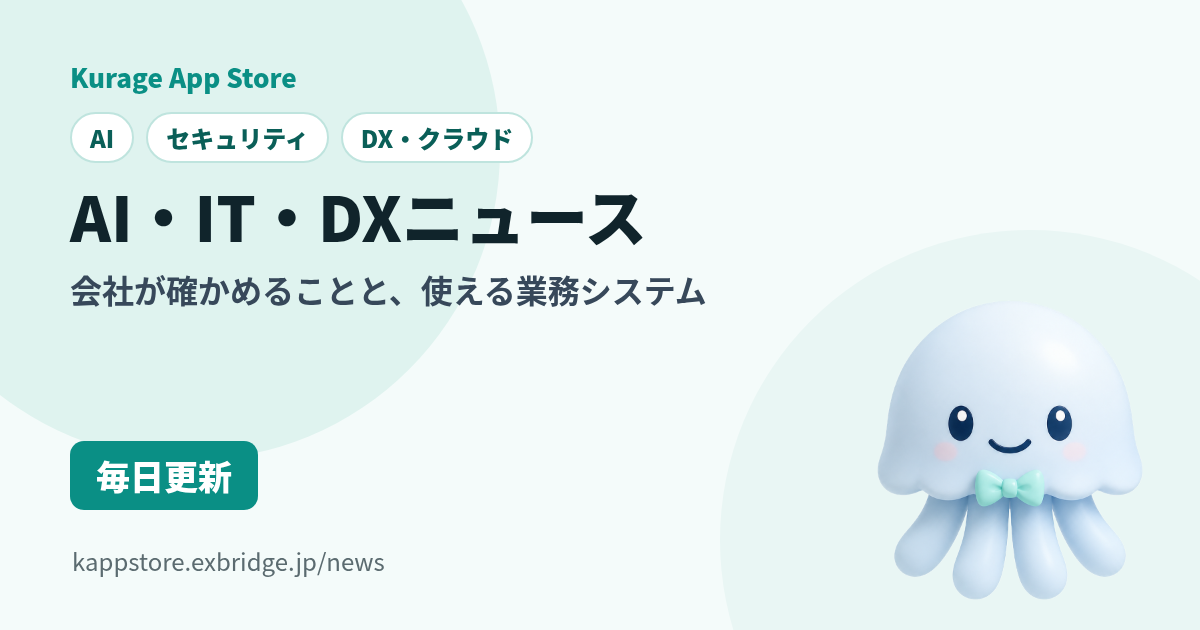
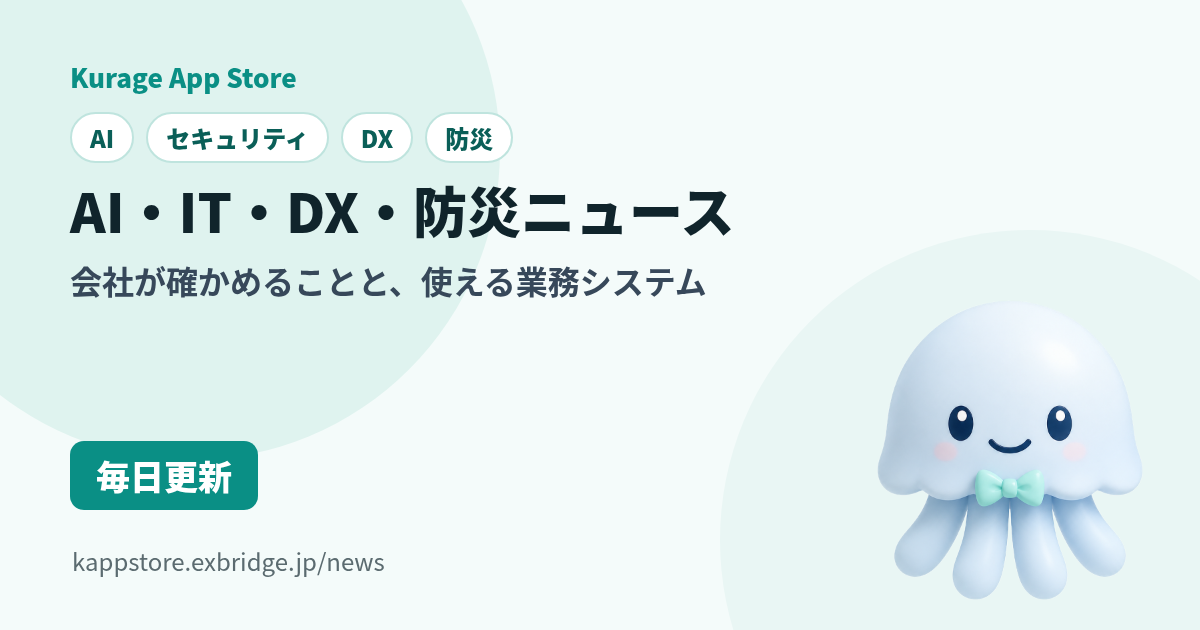
ニュースに防災を追加（/news-bousai）・制度ニュースに報道の見出しを追加
AI・IT・DX・防災ニュース：地震・大雨・台風などの見出しと防災の6商品。
業務の制度ニュース：最低賃金・消費税減税・給付付き税額控除・価格転嫁などの報道を分類ごとに並べる。

Changed region(s): [[0.0617, 0.1508, 0.6167, 0.3921], [0.0617, 0.4222, 0.5858, 0.4825]]

diff --git a/public/news.php b/public/news.php
@@ -1,9 +1,9 @@
 <?php
 /**
- * Kurage App Store — AI・IT・DXニュース（/news・/news-<話題>・/news-<日付>。.htaccess で news.php へ）。2026-11-07。
+ * Kurage App Store — AI・IT・DX・防災ニュース（/news・/news-<話題>・/news-<日付>。.htaccess で news.php へ）。2026-11-07。
  *
  * ChatGPT などのAI検索が店を読みに来ないので、更新の多い、店に合った入口として作る。
- * 時事ニュース全部ではなく、AI・セキュリティ・DXとクラウドの3つの話題だけにして、
+ * 時事ニュース全部ではなく、AI・セキュリティ・DXとクラウド・防災の4つの話題だけにして、
  * 話題ごとに「会社が確かめること」と「使える当社のアプリ」を出す（ニュースを読んで終わりにしない）。
  * データは scripts/build_news_data.py が kapp_data/news.json に書く（元は exbridge.jp/news/ と同じニュースの見出し）。
  * 見出しは各媒体の投稿の見出しをそのまま出し、元記事へリンクする。本文の要約はしない。
@@ -45,6 +45,17 @@ $TOPICS = array(
         ),
         'apps' => array('88acc4be142bd444', '63000166082c7a26', 'c1864cba4ab726b0', 'f0f56c6e4da881be', '15abb025dc2ee4f6'),
     ),
+    // 防災（2026-11-08 ユーザー「大雨とか地震とか、ニュースに関連づくプロダクトあるからね」）
+    'bousai' => array(
+        'name' => '防災', 'title' => '防災ニュース｜地震・大雨・台風のあとに会社が確かめること',
+        'lead' => '地震・津波・大雨・台風・土砂災害・停電・避難のニュースです。よそで起きた災害を自社の備えに変えるための確認項目と、住所から危険と避難先を調べられる当社の防災システムを並べます。',
+        'check' => array(
+            '従業員と家族の安否を確かめる手順（連絡の方法・集まる場所）を決め、連絡先の一覧を紙でも持っておく',
+            '事業所・倉庫・取引先の所在地が、洪水・土砂・津波の区域にかかっていないかをハザードマップで確かめる',
+            '被災したときに使える国の支援（罹災証明書・助成金・融資など）と、申請に要る書類を先に調べておく',
+        ),
+        'apps' => array('cf817fdce13ee120', '162f155897390072', '51649180bea0fd57', '41a09acc163dcb7d', 'a2ddb1f2961a74d8', '01d71e3bd7f717a8'),
+    ),
 );
 
 $data = @json_decode((string)@file_get_contents(__DIR__ . '/kapp_data/news.json'), true);
@@ -54,8 +65,8 @@ $by = array(); foreach (kapp_apps_published() as $a) { $by[$a['id']] = $a; }
 function kn_not_found() {
     http_response_code(404);
     kapp_head('見つかりません | Kurage App Store', 'お探しのページは見つかりませんでした。', 'https://kappstore.exbridge.jp/news', true);
-    kapp_header('AI・IT・DXニュース', $GLOBALS['logged_in'], $GLOBALS['user'], $GLOBALS['is_seller'], $GLOBALS['is_admin']);
-    echo '<main class="wrap narrow"><p class="empty-note">お探しのページは見つかりませんでした。<br><a href="news">AI・IT・DXニュースへ</a></p></main>';
+    kapp_header('AI・IT・DX・防災ニュース', $GLOBALS['logged_in'], $GLOBALS['user'], $GLOBALS['is_seller'], $GLOBALS['is_admin']);
+    echo '<main class="wrap narrow"><p class="empty-note">お探しのページは見つかりませんでした。<br><a href="news">AI・IT・DX・防災ニュースへ</a></p></main>';
     kapp_footer();
     exit;
 }
@@ -76,26 +87,26 @@ if ($t !== '') {
     if (!$list) { kn_not_found(); }
     $ts = strtotime($d);
     $dj = date('Y年n月j日', $ts);
-    $title = $dj . 'のAI・IT・DXニュース｜Kurage App Store';
-    $desc = $dj . 'に報じられた、AI・セキュリティ・DXとクラウドのニュース' . count($list) . '件と、会社が確かめること。';
+    $title = $dj . 'のAI・IT・DX・防災ニュース｜Kurage App Store';
+    $desc = $dj . 'に報じられた、AI・セキュリティ・DXとクラウド・防災のニュース' . count($list) . '件と、会社が確かめること。';
     $canonical = $BASE . 'news-' . $d;
-    $h1 = $dj . 'のAI・IT・DXニュース';
+    $h1 = $dj . 'のAI・IT・DX・防災ニュース';
     $crumb = $dj;
 } else {
     $list = array_slice($items, 0, 60);
-    $title = 'AI・IT・DXニュース｜会社が確かめることと使える業務システム｜Kurage App Store';
-    $desc = 'AI・セキュリティ・DXとクラウドのニュースを毎日まとめ、話題ごとに会社が確かめることと、自社のサーバーで使える当社の業務システム（買い切り・月額なし）を並べます。';
+    $title = 'AI・IT・DX・防災ニュース｜会社が確かめることと使える業務システム｜Kurage App Store';
+    $desc = 'AI・セキュリティ・DXとクラウド・防災のニュースを毎日まとめ、話題ごとに会社が確かめることと、自社のサーバーで使える当社の業務システム（買い切り・月額なし）を並べます。';
     $canonical = $BASE . 'news';
-    $h1 = 'AI・IT・DXニュース';
+    $h1 = 'AI・IT・DX・防災ニュース';
     $crumb = '';
 }
 $updated = $data && isset($data['generated_at']) ? substr($data['generated_at'], 0, 10) : date('Y-m-d');
 $ogslug = $t !== '' ? 'news-' . $t : 'news';
-$answer = 'Kurage App Store の「AI・IT・DXニュース」とは、AI・セキュリティ・DXとクラウドについての報道を毎日まとめ、話題ごとに会社が確かめることと、自社のサーバーで使える当社の業務システム（買い切り・月額なし・ソースコード付き）を並べるページです。直近60日で' . count($items) . '件を載せています。';
+$answer = 'Kurage App Store の「AI・IT・DX・防災ニュース」とは、AI・セキュリティ・DXとクラウド・防災（地震・大雨・台風など）についての報道を毎日まとめ、話題ごとに会社が確かめることと、自社のサーバーで使える当社の業務システム（買い切り・月額なし・ソースコード付き）を並べるページです。直近60日で' . count($items) . '件を載せています。';
 if ($t !== '') { $answer = $TOPICS[$t]['name'] . 'のニュースを受けて会社が最初に確かめることは、' . implode('、', array_map(function ($v) { return rtrim($v, '。'); }, $TOPICS[$t]['check'])) . 'の3つです。直近60日の' . $TOPICS[$t]['name'] . 'のニュースは' . count($list) . '件です。'; }
 $faq = array(
-    array('AI・IT・DXニュースとは何ですか？', 'Kurage App Store（株式会社エクスブリッジ）が、AI・セキュリティ・DXとクラウドについての報道を毎日まとめ、話題ごとに会社が確かめることと、使える当社の業務システムを並べているページです。'),
-    array('どのニュースを載せていますか？', '報道各社が X に投稿したニュースの見出しを、見出しの語でAI・セキュリティ・DXとクラウドに分けて載せ、元の記事へリンクしています。本文の要約や評価はしていません。'),
+    array('AI・IT・DX・防災ニュースとは何ですか？', 'Kurage App Store（株式会社エクスブリッジ）が、AI・セキュリティ・DXとクラウド・防災（地震・大雨・台風など）についての報道を毎日まとめ、話題ごとに会社が確かめることと、使える当社の業務システムを並べているページです。'),
+    array('どのニュースを載せていますか？', '報道各社が X に投稿したニュースの見出しを、見出しの語でAI・セキュリティ・DXとクラウド・防災に分けて載せ、元の記事へリンクしています。本文の要約や評価はしていません。'),
     array('紹介している業務システムはどう使えますか？', '自社のサーバー（レンタルサーバーなど）に置いて使う買い切りの業務システムです。月額の利用料はかからず、ソースコードが付いています。価格は各商品のページに載っています。'),
 );
 if ($t !== '') { array_unshift($faq, array($TOPICS[$t]['name'] . 'のニュースを受けて、会社は何を確かめればよいですか？', implode('。', array_map(function ($v) { return rtrim($v, '。'); }, $TOPICS[$t]['check'])) . '。')); }
@@ -111,14 +122,14 @@ $ld = array(
           }, array_slice($list, 0, 50), array_keys(array_slice($list, 0, 50)))),
     array('@context' => 'https://schema.org', '@type' => 'BreadcrumbList', 'itemListElement' => array_values(array_filter(array(
         array('@type' => 'ListItem', 'position' => 1, 'name' => 'Kurage App Store', 'item' => $BASE),
-        array('@type' => 'ListItem', 'position' => 2, 'name' => 'AI・IT・DXニュース', 'item' => $BASE . 'news'),
+        array('@type' => 'ListItem', 'position' => 2, 'name' => 'AI・IT・DX・防災ニュース', 'item' => $BASE . 'news'),
         $crumb !== '' ? array('@type' => 'ListItem', 'position' => 3, 'name' => $crumb, 'item' => $canonical) : null)))),
 );
 $ld[] = array('@context' => 'https://schema.org', '@type' => 'FAQPage', 'mainEntity' => array_map(function ($qa) {
     return array('@type' => 'Question', 'name' => $qa[0], 'acceptedAnswer' => array('@type' => 'Answer', 'text' => $qa[1]));
 }, $faq));
 kapp_head($title, $desc, $canonical, false, json_encode($ld, JSON_UNESCAPED_UNICODE | JSON_UNESCAPED_SLASHES), $BASE . 'assets/og/' . $ogslug . '.png');
-kapp_header('AI・IT・DXニュース', $logged_in, $user, $is_seller, $is_admin);
+kapp_header('AI・IT・DX・防災ニュース', $logged_in, $user, $is_seller, $is_admin);
 
 function kn_topic_label($k, $TOPICS) { return isset($TOPICS[$k]) ? $TOPICS[$k]['name'] : $k; }
 function kn_app_cards($ids, $by, $ref) {
@@ -135,7 +146,7 @@ function kn_app_cards($ids, $by, $ref) {
 ?>
 <main class="wrap">
 <section>
-  <p style="font-size:12.5px"><a href="index.php">Kurage App Store</a> › <?php echo $crumb !== '' ? '<a href="news">AI・IT・DXニュース</a> › ' . kapp_h($crumb) : 'AI・IT・DXニュース'; ?></p>
+  <p style="font-size:12.5px"><a href="index.php">Kurage App Store</a> › <?php echo $crumb !== '' ? '<a href="news">AI・IT・DX・防災ニュース</a> › ' . kapp_h($crumb) : 'AI・IT・DX・防災ニュース'; ?></p>
   <h1><?php echo kapp_h($h1); ?></h1>
   <?php if ($d === ''): ?><p style="font-size:15px;line-height:1.85;overflow-wrap:anywhere;margin:0 0 6px"><?php echo kapp_h($answer); ?></p><?php endif; ?>
   <p class="lead" style="overflow-wrap:anywhere"><?php echo kapp_h($t !== '' ? $TOPICS[$t]['lead'] : $desc); ?>（更新 <?php echo kapp_h($updated); ?>）</p>

diff --git a/public/seido.php b/public/seido.php
@@ -37,14 +37,18 @@ $CATS = array(
 
 $data = @json_decode((string)@file_get_contents(__DIR__ . '/kapp_data/seido.json'), true);
 $items = ($data && isset($data['items'])) ? $data['items'] : array();
+// 制度に関わる報道の見出し（2026-11-08 追加。府省の発表だけだと件数が少なく、最低賃金・消費税減税などの動きが見えなかった）
+$news = ($data && isset($data['news'])) ? $data['news'] : array();
 $by = array(); foreach (kapp_apps_published() as $a) { $by[$a['id']] = $a; }
 $updated = $data && isset($data['generated_at']) ? substr($data['generated_at'], 0, 10) : date('Y-m-d');
 $ogslug = ($c !== '' && isset($CATS[$c])) ? 'seido-' . $c : 'seido';
 $c_list = $c !== '' ? array_values(array_filter($items, function ($x) use ($c) { return in_array($c, $x['cats'], true); })) : $items;
-$answer = 'Kurage App Store の「業務の制度ニュース」とは、府省の発表のうち、労務・情報管理・補助金と支援・取引・税と手続など会社の業務に関わるものを並べ、分類ごとに会社がやることと、使える当社の業務システムを紹介するページです。いま' . count($items) . '件の発表を載せています。';
-if ($c !== '' && isset($CATS[$c])) { $answer = $CATS[$c]['name'] . 'の発表を受けて会社がやることは、' . implode('、', array_map(function ($v) { return rtrim($v, '。'); }, $CATS[$c]['todo'])) . 'の3つです。' . $CATS[$c]['name'] . 'の発表はいま' . count($c_list) . '件です。'; }
+$c_news = $c !== '' ? array_values(array_filter($news, function ($x) use ($c) { return in_array($c, $x['cats'], true); })) : $news;
+$answer = 'Kurage App Store の「業務の制度ニュース」とは、府省の発表のうち、労務・情報管理・補助金と支援・取引・税と手続など会社の業務に関わるものを並べ、分類ごとに会社がやることと、使える当社の業務システムを紹介するページです。いま府省の発表' . count($items) . '件と、制度に関わる報道' . count($news) . '件を載せています。';
+if ($c !== '' && isset($CATS[$c])) { $answer = $CATS[$c]['name'] . 'の発表を受けて会社がやることは、' . implode('、', array_map(function ($v) { return rtrim($v, '。'); }, $CATS[$c]['todo'])) . 'の3つです。' . $CATS[$c]['name'] . 'の府省の発表はいま' . count($c_list) . '件、関係する報道は' . count($c_news) . '件です。'; }
 $faq = array(
     array('業務の制度ニュースとは何ですか？', 'Kurage App Store（株式会社エクスブリッジ）が、府省の発表のうち会社の業務に関わるもの（労務・情報管理・補助金と支援・取引・税と手続）を並べ、会社がやることと使える当社の業務システムを紹介しているページです。'),
+    array('報道のニュースも載せていますか？', '載せています。報道各社が X に投稿したニュースの見出しのうち、最低賃金・社会保険・消費税減税・給付付き税額控除・インボイス・価格転嫁・補助金・個人情報の漏えいなど、会社の業務に関わる制度の見出しを分類して並べ、元の記事へリンクしています（直近60日）。本文の要約や評価はしていません。'),
     array('どの府省の発表を載せていますか？', 'デジタル庁・国土交通省・厚生労働省・農林水産省・文部科学省・総務省・内閣府・金融庁・中小企業庁の新着情報（RSS）です。題名・日付・リンクは各府省の発表のとおりで、内容は公式ページでご確認ください。国税庁・公正取引委員会・個人情報保護委員会の発表は、まだ取り込めていません。'),
     array('紹介している業務システムはどう使えますか？', '自社のサーバー（レンタルサーバーなど）に置いて使う買い切りの業務システムです。月額の利用料はかからず、ソースコードが付いています。価格は各商品のページに載っています。'),
 );
@@ -67,8 +71,8 @@ if ($c !== '') {
     $h1 = $ct['name'] . 'の制度ニュース';
 } else {
     $list = $items;
-    $title = '業務の制度ニュース｜府省の発表から会社がやることと使える業務システム｜Kurage App Store';
-    $desc = '府省の発表のうち、労務・情報管理・補助金と支援・取引・税と手続など会社の業務に関わるものを並べ、分類ごとに会社がやることと、自社のサーバーで使える当社の業務システムを紹介します。';
+    $title = '業務の制度ニュース｜府省の発表と報道から会社がやることと使える業務システム｜Kurage App Store';
+    $desc = '最低賃金・消費税減税・給付付き税額控除・価格転嫁などの報道と、府省の発表のうち、労務・情報管理・補助金と支援・取引・税と手続など会社の業務に関わるものを並べ、分類ごとに会社がやることと、自社のサーバーで使える当社の業務システムを紹介します。';
     $canonical = $BASE . 'seido';
     $h1 = '業務の制度ニュース';
 }
@@ -124,8 +128,21 @@ kapp_header('業務の制度ニュース', $logged_in, $user, $is_seller, $is_ad
 </section>
 <?php endif; ?>
 
+<?php $nshow = array_slice($c_news, 0, 30); if ($nshow): ?>
 <section>
-  <h2 style="font-size:18px"><?php echo $c !== '' ? kapp_h($CATS[$c]['name']) . 'の発表（' . count($list) . '件）' : '新しい発表（' . count($list) . '件）'; ?></h2>
+  <h2 style="font-size:18px"><?php echo $c !== '' ? kapp_h($CATS[$c]['name']) . 'に関係するニュース（' . count($c_news) . '件・新しい順）' : '制度に関わるニュース（' . count($c_news) . '件・新しい順）'; ?></h2>
+  <?php foreach ($nshow as $x): ?>
+    <article style="border-top:1px solid var(--panel-line);padding:10px 0;overflow-wrap:anywhere">
+      <div style="font-size:12px;color:#5b6b70"><?php echo kapp_h($x['day'] . ' ' . $x['time'] . '　' . $x['source']); ?>　<?php foreach ($x['cats'] as $k): if (!isset($CATS[$k])) { continue; } ?><a href="seido-<?php echo kapp_h($k); ?>" style="font-size:11.5px;border:1px solid var(--panel-line);border-radius:99px;padding:1px 8px;margin-right:4px;text-decoration:none"><?php echo kapp_h($CATS[$k]['name']); ?></a><?php endforeach; ?></div>
+      <div style="font-size:15px;font-weight:700;line-height:1.6;margin:3px 0"><?php if ($x['url'] !== ''): ?><a href="<?php echo kapp_h($x['url']); ?>" target="_blank" rel="noopener nofollow"><?php echo kapp_h($x['headline']); ?></a><?php else: echo kapp_h($x['headline']); endif; ?></div>
+      <?php if ($x['ex'] !== ''): ?><div style="font-size:12.5px"><a href="<?php echo kapp_h($x['ex']); ?>">このニュースに関係する国会の記録</a></div><?php endif; ?>
+    </article>
+  <?php endforeach; ?>
+</section>
+<?php endif; ?>
+
+<section>
+  <h2 style="font-size:18px"><?php echo $c !== '' ? kapp_h($CATS[$c]['name']) . 'の府省の発表（' . count($list) . '件）' : '府省の発表（' . count($list) . '件）'; ?></h2>
   <?php foreach ($list as $x): ?>
     <article style="border-top:1px solid var(--panel-line);padding:10px 0;overflow-wrap:anywhere">
       <div style="font-size:12px;color:#5b6b70"><?php echo kapp_h($x['day'] . '　' . $x['ministry']); ?>　<?php foreach ($x['cats'] as $k): if (!isset($CATS[$k])) { continue; } ?><a href="seido-<?php echo kapp_h($k); ?>" style="font-size:11.5px;border:1px solid var(--panel-line);border-radius:99px;padding:1px 8px;margin-right:4px;text-decoration:none"><?php echo kapp_h($CATS[$k]['name']); ?></a><?php endforeach; ?></div>
@@ -155,7 +172,7 @@ kapp_header('業務の制度ニュース', $logged_in, $user, $is_seller, $is_ad
 </section>
 
 <section style="max-width:760px;margin:24px auto 0;font-size:13px;color:#5b6b70;line-height:1.8">
-  <p>題名・日付・リンクは各府省の新着情報（RSS）のとおりです（デジタル庁・国土交通省・厚生労働省・農林水産省・文部科学省・総務省・内閣府・金融庁・中小企業庁）。内容は必ず公式ページでご確認ください。分類は題名の語による機械的なものです。あわせて <a href="news">AI・IT・DXニュース</a> もご覧ください。運営：株式会社エクスブリッジ（Kurage App Store）。</p>
+  <p>ニュースの見出しは報道各社が X に投稿したもののとおりで、元の記事へリンクしています。府省の発表の題名・日付・リンクは各府省の新着情報（RSS）のとおりです（デジタル庁・国土交通省・厚生労働省・農林水産省・文部科学省・総務省・内閣府・金融庁・中小企業庁）。内容は必ず公式ページでご確認ください。分類は題名の語による機械的なものです。あわせて <a href="news">AI・IT・DX・防災ニュース</a> もご覧ください。運営：株式会社エクスブリッジ（Kurage App Store）。</p>
 </section>
 </main>
 <?php kapp_footer(); ?>

diff --git a/scripts/build_news_data.py b/scripts/build_news_data.py
@@ -25,7 +25,10 @@ TOPICS = [
     ('security', re.compile(r'サイバー(攻撃|対策|セキュリティ|犯罪|防御|対処)|不正アクセス|情報(漏え?い|漏洩|流出)|個人情報.{0,6}(流出|漏)|ランサム|脆弱性|フィッシング|ハッカー|マルウェア|サイバー空間|なりすまし.{0,6}(メール|サイト)')),
     ('dx', re.compile(r'(?<![A-Za-zＡ-Ｚａ-ｚ])(DX|ＤＸ)(?![A-Za-zＡ-Ｚａ-ｚ])|デジタル(化|庁|改革|行政|人材|田園|社会)|クラウド|SaaS|ＳａａＳ|システム(障害|刷新|移行|統合|更新)|基幹システム|データセンター|マイナンバー|マイナ保険証|オープンソース|(?<![A-Za-z])OSS(?![A-Za-z])|ペーパーレス|電子(契約|帳簿|インボイス)|キャッシュレス|ローコード')),
 ]
-EXCLUDE = re.compile(r'サイバートラック|見逃し配信|プレゼント|占い|今日の天気')
+TOPICS.append(
+    # 防災（2026-11-08 ユーザー「大雨とか地震とか、ニュースに関連づくプロダクトあるからね」）。地震・大雨・台風・津波・土砂・停電・避難
+    ('bousai', re.compile(r'地震|震度|震源|津波|大雨|豪雨|線状降水帯|台風|土砂(災害|崩れ)|洪水|氾濫|浸水|冠水|避難(指示|所|情報|勧告)|停電|噴火|大雪|竜巻|防災|被災|罹災|災害(救助|対策|派遣)|緊急地震速報|南海トラフ|首都直下')))
+EXCLUDE = re.compile(r'サイバートラック|見逃し配信|プレゼント|占い|今日の天気|地震計の|台風の目|(株|株価|相場|市場).{0,6}(大荒れ|嵐)')
 
 
 def topics_of(headline):
@@ -50,6 +53,46 @@ SEIDO = [
 SEIDO_NOISE = re.compile(r'採用選考|看護教育|ねんりんピック|健康福祉祭|自治体向け|地方公共団体向け|WEBマガジン|大学|学部|免許|国家資格|ゲノム|憲法|地方債|交付税|放送コンテンツ|学園祭|つみたて投資枠|検討会|会議資料|タスクフォース|合同会議|政策会議|にご協力|核燃料税|記者会見|会見のお知らせ|開催します|開催案内|開催について|を開催|表彰|採用情報|職員(の)?募集|人事異動|募集情報|審議会.{0,20}(資料|議事録)|部会.{0,10}(資料|議事録)|専門委員会|調査結果の公表について$|統計調査報告|労働力調査|月例')
 
 
+# 制度に関わるニュースの見出し（2026-11-08 ユーザー「防災だけじゃなくて、制度に関連するニュースでもいいよね」）。
+# 府省の発表（上の SEIDO）とは別に、報道の見出しを /seido の分類に分ける。分類のキーは SEIDO と同じ。
+NEWS_SEIDO = [
+    ('roumu', re.compile(r'最低賃金|賃上げ|春闘|労働時間|働き方改革|残業|長時間労働|育休|育児休業|介護休業|社会保険|年収の壁|106万|130万|厚生年金|雇用保険|外国人労働者|技能実習|育成就労|ハラスメント|労災|過労死|有給休暇|週休3日')),
+    ('joho', re.compile(r'個人情報(保護|の漏|流出)|個人情報保護委員会|情報漏え?い|サイバー攻撃|不正アクセス|ランサム')),
+    ('shien', re.compile(r'補助金|助成金|支援金|給付金|資金繰り|中小企業.{0,10}(支援|融資)|事業再構築|持続化')),
+    ('torihiki', re.compile(r'取適法|下請|価格転嫁|フリーランス(法|新法|保護)|公正取引委員会|公取委|独占禁止法|優越的地位')),
+    ('tetsuzuki', re.compile(r'消費税|減税|増税|給付付き税額控除|インボイス|所得税|住民税|基礎控除|年末調整|電子帳簿|定額減税|税制(改正|大綱)|確定申告|ふるさと納税|マイナンバー')),
+]
+NEWS_SEIDO_NOISE = re.compile(r'サイバートラック|見逃し配信|プレゼント|占い|(米国|中国|韓国|英国|欧州|トランプ).{0,12}(減税|増税|関税)')
+
+
+from collections import Counter
+
+
+def news_seido(news_items):
+    """news-cards の見出し（直近60日）から、制度の分類に当たるものを返す。"""
+    d = json.load(open(SRC, encoding='utf-8'))
+    cutoff = time.strftime('%Y-%m-%d', time.localtime(time.time() - DAYS * 86400))
+    seen, out = set(), []
+    for x in d['items']:
+        if x['day'] < cutoff:
+            continue
+        t = STRIP.sub('', x['headline'])
+        if NEWS_SEIDO_NOISE.search(t):
+            continue
+        cats = [k for k, rx in NEWS_SEIDO if rx.search(t)]
+        if not cats:
+            continue
+        key = re.sub(r'\s+', '', x['headline'])
+        if key in seen:
+            continue
+        seen.add(key)
+        out.append({'day': x['day'], 'time': x.get('time', ''), 'source': x.get('source', ''), 'headline': x['headline'], 'cats': cats,
+                    'url': x.get('newsUrl') or x.get('post') or '',
+                    'ex': f"https://exbridge.jp/news/{x['day']}/{x['id']}.html" if x.get('id') else ''})
+    out.sort(key=lambda x: (x['day'], x['time']), reverse=True)
+    return out
+
+
 def build_seido():
     L = list(json.load(open(SHOCHO, encoding='utf-8')).values())
     out = []
@@ -63,8 +106,9 @@ def build_seido():
         out.append({'day': x.get('date', ''), 'ministry': x.get('ministry_name', ''), 'title': t, 'cats': cats,
                     'url': x.get('url', ''), 'ex': f"https://exbridge.jp/shocho/n/{x['id']}.html" if x.get('id') else ''})
     out.sort(key=lambda x: x['day'], reverse=True)
-    json.dump({'generated_at': time.strftime('%Y-%m-%d %H:%M'), 'items': out}, open(SEIDO_OUT, 'w', encoding='utf-8'), ensure_ascii=False, indent=1)
-    from collections import Counter
+    nws = news_seido(None)
+    json.dump({'generated_at': time.strftime('%Y-%m-%d %H:%M'), 'items': out, 'news': nws}, open(SEIDO_OUT, 'w', encoding='utf-8'), ensure_ascii=False, indent=1)
+    print(f'seido のニュース: {len(nws)}件（{dict(Counter(c for x in nws for c in x["cats"]))}）')
     print(f'seido: {len(out)}件（{dict(Counter(c for x in out for c in x["cats"]))}）→ {SEIDO_OUT}')
 
 

diff --git a/scripts/make_news_ogp.py b/scripts/make_news_ogp.py
@@ -18,11 +18,12 @@ nc = lambda k: sum(1 for x in news['items'] if k in x['topics'])
 sc = lambda k: sum(1 for x in seido['items'] if k in x['cats'])
 
 CARDS = [
-    ('news', 'AI・IT・DXニュース', '会社が確かめることと、使える業務システム', ['AI', 'セキュリティ', 'DX・クラウド'], '毎日更新'),
+    ('news', 'AI・IT・DX・防災ニュース', '会社が確かめることと、使える業務システム', ['AI', 'セキュリティ', 'DX', '防災'], '毎日更新'),
     ('news-ai', 'AIのニュース', '会社がAIを使うときに確かめること', ['生成AI', 'AIエージェント', 'AIの規制'], '毎日更新'),
     ('news-security', 'セキュリティのニュース', '不正アクセス・情報漏えいのあとに確かめること', ['不正アクセス', '情報漏えい', '脆弱性'], '毎日更新'),
     ('news-dx', 'DX・クラウドのニュース', 'SaaSとシステムの見直しで確かめること', ['クラウド', 'SaaS', '基幹システム'], '毎日更新'),
-    ('seido', '業務の制度ニュース', '府省の発表から、会社がやることを', ['労務', '情報管理', '補助金と支援'], '府省の発表から・毎日更新'),
+    ('news-bousai', '防災のニュース', '地震・大雨・台風のあとに会社が確かめること', ['地震・津波', '大雨・台風', '避難・被災'], '毎日更新'),
+    ('seido', '業務の制度ニュース', '報道と府省の発表から、会社がやることを', ['労務', '情報管理', '補助金と支援'], '府省の発表から・毎日更新'),
     ('seido-roumu', '労務の制度ニュース', '最低賃金・労働時間・雇用の発表', ['最低賃金', '勤怠', '労働安全衛生'], '府省の発表から'),
     ('seido-joho', '情報管理の制度ニュース', '不正アクセス・個人情報の注意喚起', ['不正アクセス', '個人情報', '注意喚起'], '府省の発表から'),
     ('seido-shien', '補助金と支援の制度ニュース', '中小企業向けの公募・支援', ['補助金', '助成金', '公募'], '府省の発表から'),

diff --git a/public/llms.php b/public/llms.php
@@ -73,8 +73,8 @@ $lines[] = '';
 $lines[] = '## Optional';
 $lines[] = '';
 $lines[] = '- [Sitemap](' . $base . 'sitemap.xml)';
-$lines[] = '- [AI・IT・DXニュース](' . $base . 'news): AI・セキュリティ・DXとクラウドのニュースを毎日まとめ、話題ごとに会社が確かめることと使える業務システムを並べたページ';
-$lines[] = '- [業務の制度ニュース](' . $base . 'seido): 府省の発表のうち労務・情報管理・補助金と支援・取引・税と手続など会社の業務に関わるものを並べ、会社がやることと使える業務システムを紹介するページ';
+$lines[] = '- [AI・IT・DX・防災ニュース](' . $base . 'news): AI・セキュリティ・DXとクラウド・防災（地震・大雨・台風）のニュースを毎日まとめ、話題ごとに会社が確かめることと使える業務システムを並べたページ';
+$lines[] = '- [業務の制度ニュース](' . $base . 'seido): 府省の発表と、最低賃金・消費税減税・給付付き税額控除・価格転嫁などの報道のうち労務・情報管理・補助金と支援・取引・税と手続など会社の業務に関わるものを並べ、会社がやることと使える業務システムを紹介するページ';
 $lines[] = '- [出品者向けページ](' . $base . 'sellers.php)';
 $lines[] = '- [Kurage Project](https://kurage.exbridge.jp/llms.txt)';
 

diff --git a/public/sitemap.php b/public/sitemap.php
@@ -35,7 +35,7 @@ foreach (kapp_apps_published() as $app) {
 $nw = @json_decode((string)@file_get_contents(__DIR__ . '/kapp_data/news.json'), true);
 if ($nw && !empty($nw['items'])) {
     $nmod = substr((string)$nw['generated_at'], 0, 10);
-    foreach (array('news', 'news-ai', 'news-security', 'news-dx') as $nu) {
+    foreach (array('news', 'news-ai', 'news-security', 'news-dx', 'news-bousai') as $nu) {
         echo "  <url><loc>{$base}{$nu}</loc><lastmod>{$nmod}</lastmod><changefreq>daily</changefreq><priority>0.8</priority></url>\n";
     }
     $days = array(); foreach ($nw['items'] as $x) { $days[$x['day']] = 1; }

diff --git a/public/kapp_ui.php b/public/kapp_ui.php
@@ -216,7 +216,7 @@ function kapp_header($subtitle, $logged_in, $user, $is_seller = false, $is_admin
     echo '<nav class="hnav">';
     echo '<a class="chip" href="index.php">アプリ一覧</a>';
     echo '<a class="chip" href="sellers.php">開発元一覧</a>';
-    echo '<a class="chip" href="news">AI・IT・DXニュース</a>';
+    echo '<a class="chip" href="news">AI・IT・DX・防災ニュース</a>';
     echo '<a class="chip" href="seido">業務の制度ニュース</a>';
     if ($logged_in) {
         $badge = kapp_dashboard_badge($user, $is_admin);
